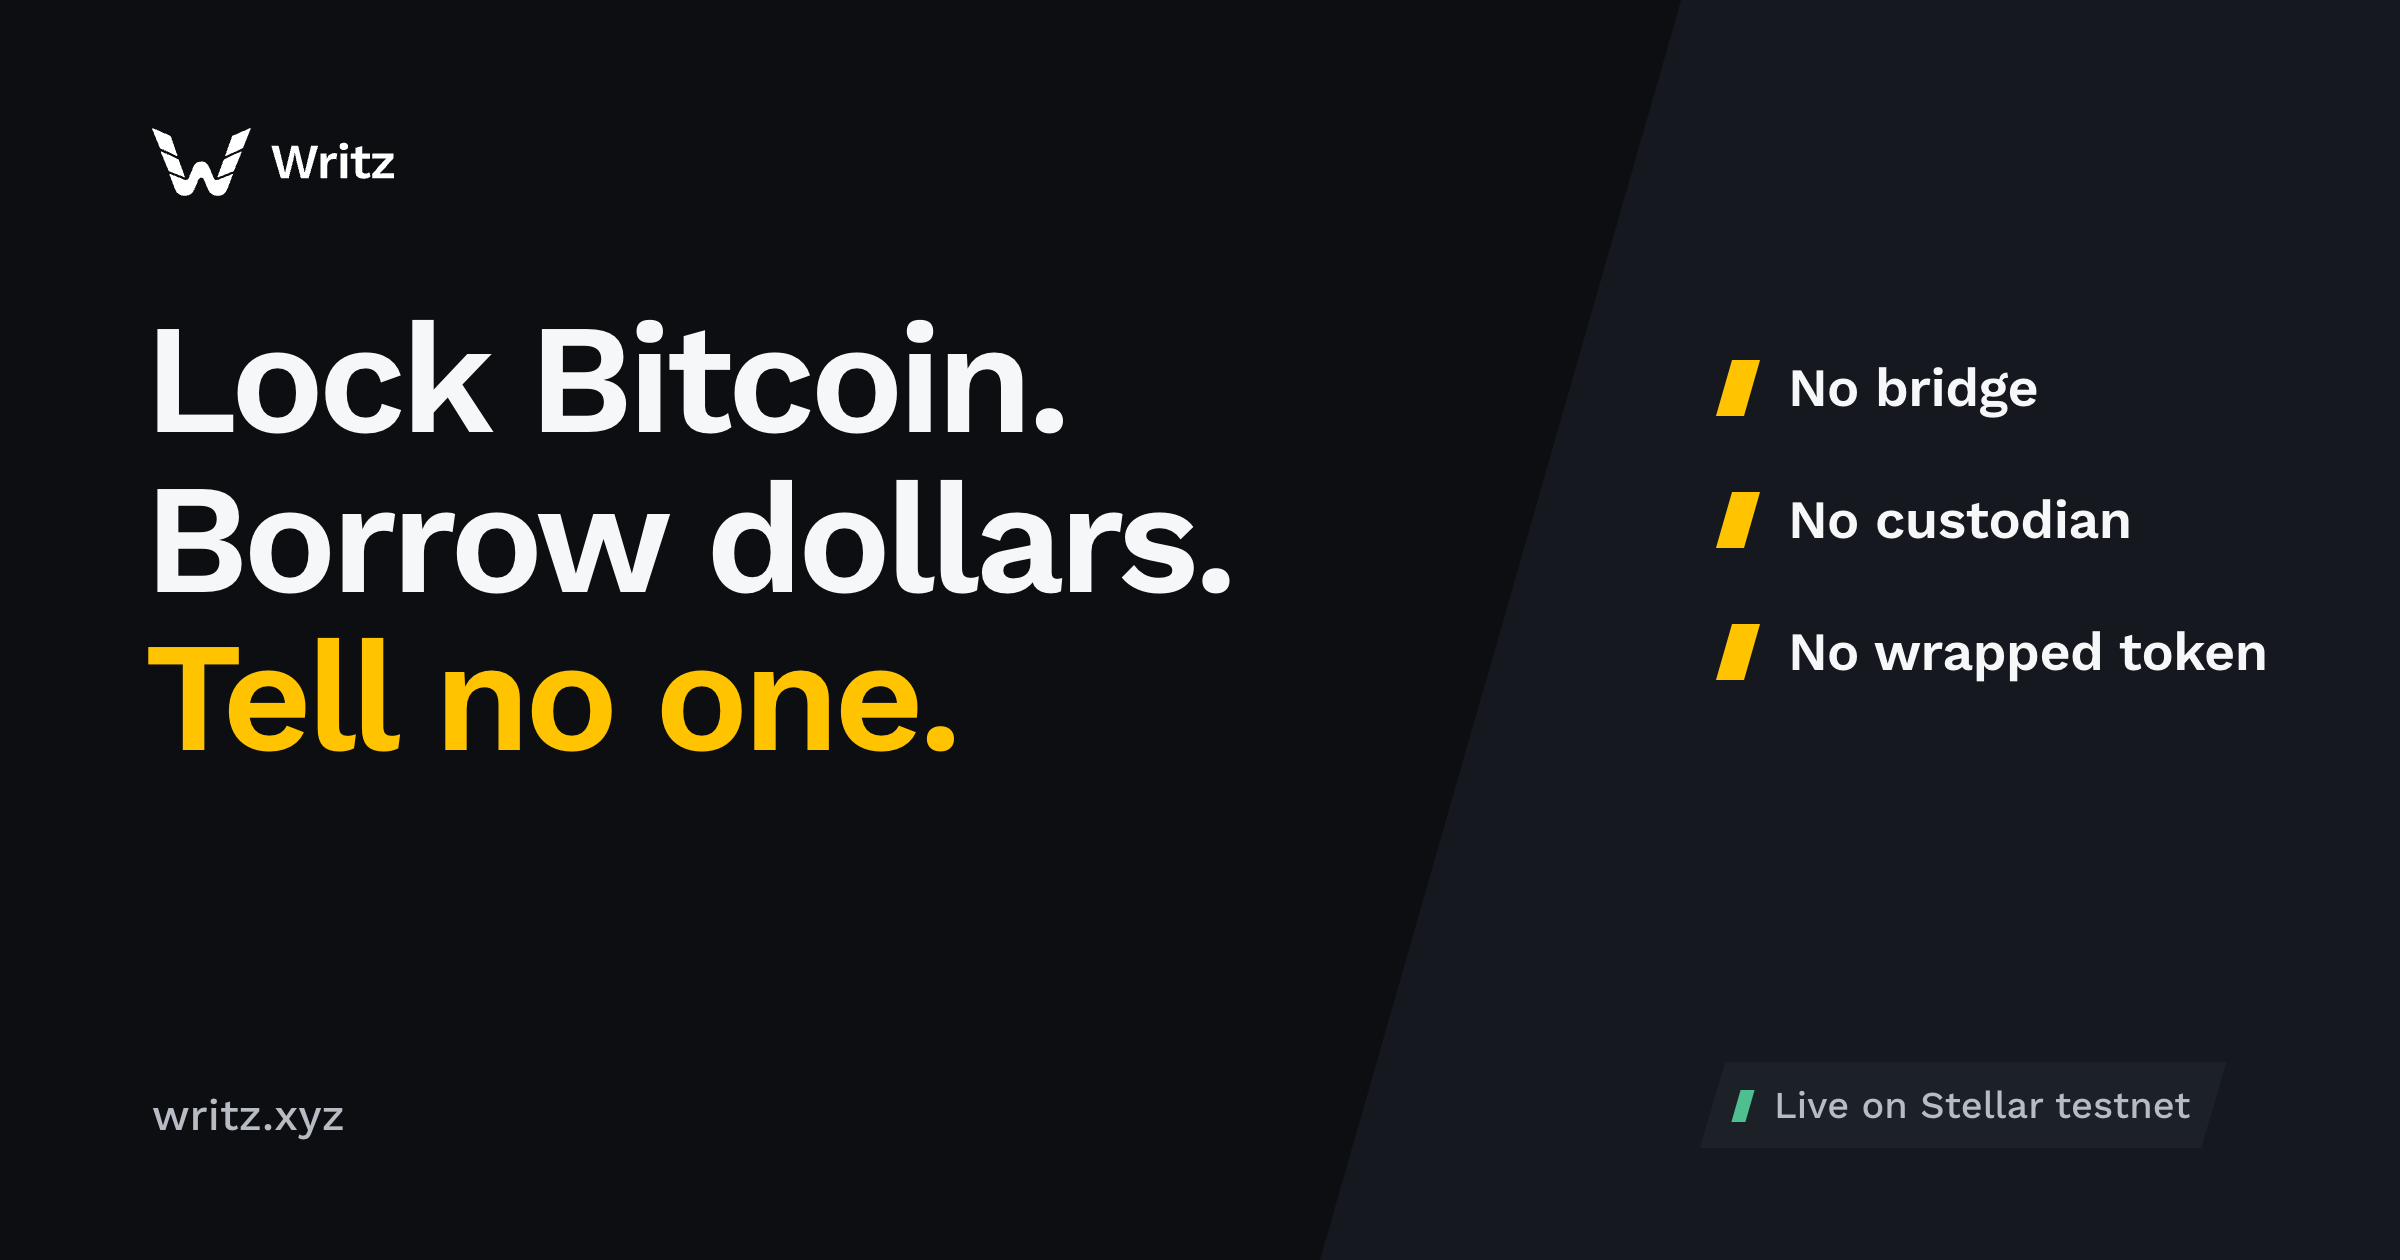
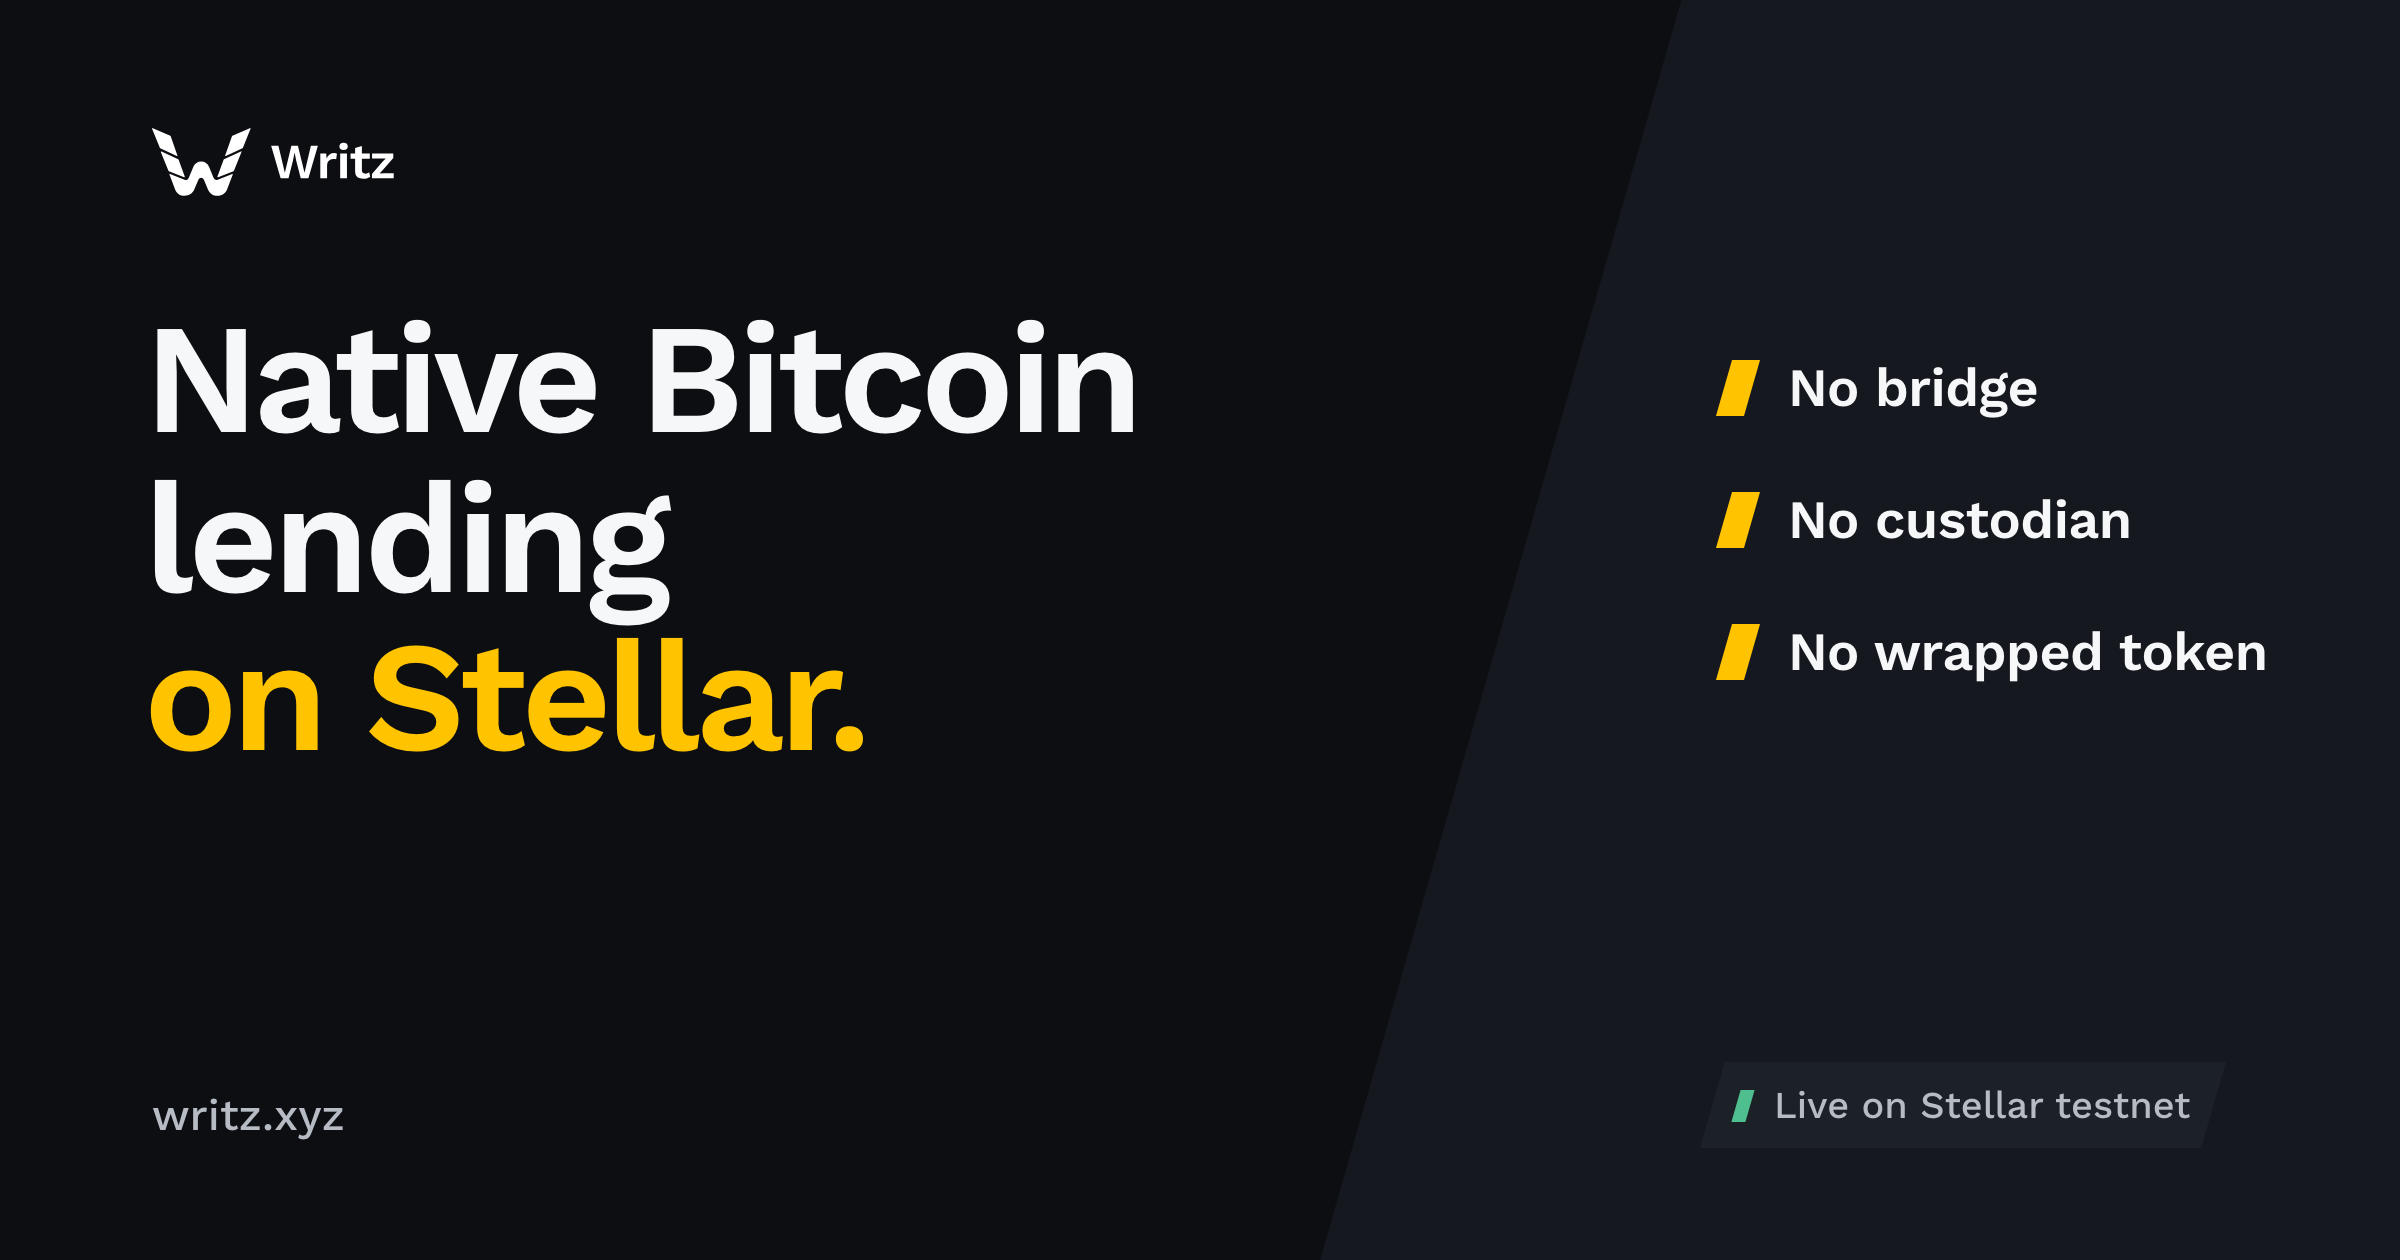
feat(brand): replace the OG image with the new hero line (#407)

Changed region(s): [[0.0625, 0.3714, 0.5312, 0.619], [0.0625, 0.2476, 0.5, 0.3405]]

diff --git a/frontend/app/src/app/layout.tsx b/frontend/app/src/app/layout.tsx
@@ -62,10 +62,10 @@ export const metadata: Metadata = {
     url: "/",
     images: [
       {
-        url: "/og.png?v=3",
+        url: "/og.png?v=4",
         width: 2400,
         height: 1260,
-        alt: "Writz. Lock Bitcoin. Borrow dollars. Tell no one. No bridge, no custodian, no wrapped token.",
+        alt: "Writz Protocol. Native Bitcoin lending on Stellar. No bridge, no custodian, no wrapped token.",
       },
     ],
   },
@@ -74,7 +74,7 @@ export const metadata: Metadata = {
     site: "@WritzProtocol",
     title: TITLE,
     description: DESCRIPTION,
-    images: ["/og.png?v=3"],
+    images: ["/og.png?v=4"],
   },
 };
 

diff --git a/frontend/landing/src/config/site.ts b/frontend/landing/src/config/site.ts
@@ -7,8 +7,8 @@ export const ORGANIZATION_ID = `${env.siteUrl}/#organization`;
 export const WEBSITE_ID = `${env.siteUrl}/#website`;
 
 export const OG_IMAGE = {
-  url: "/og.png?v=3",
+  url: "/og.png?v=4",
   width: 2400,
   height: 1260,
-  alt: "Writz. Lock Bitcoin. Borrow dollars. Tell no one. No bridge, no custodian, no wrapped token.",
+  alt: "Writz Protocol. Native Bitcoin lending on Stellar. No bridge, no custodian, no wrapped token.",
 };
